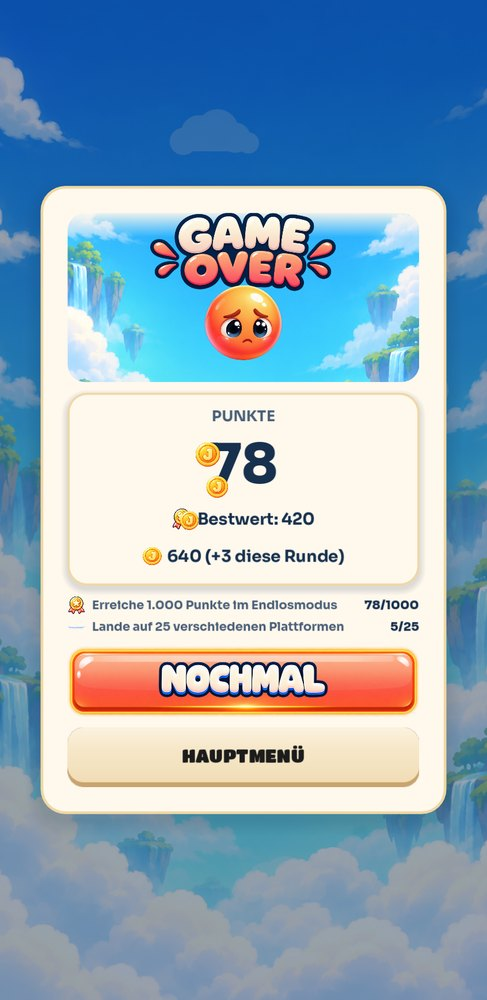
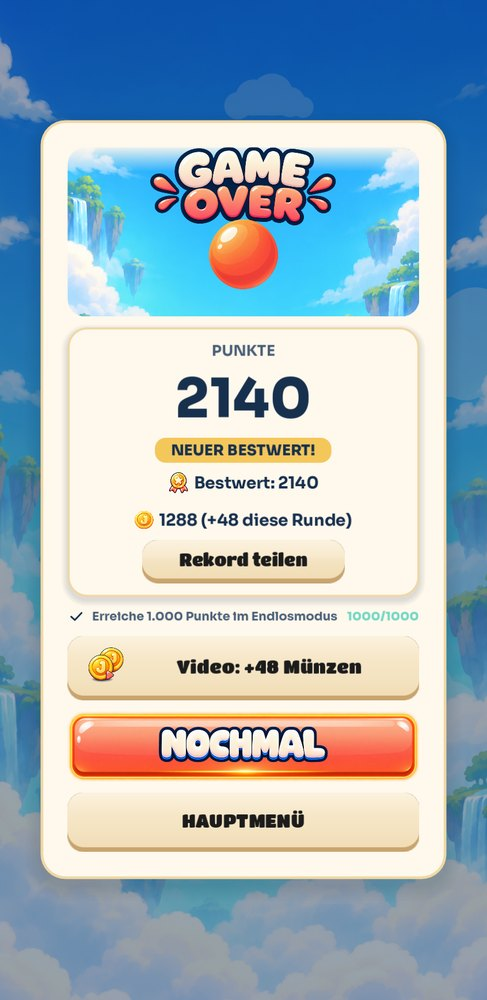
Neue Screenshots (neues Menü, Rekord, Shop mit Starter-Paket, Welten, Missionen, Trophäen)

diff --git a/index.html b/index.html
@@ -41,7 +41,7 @@
     <img class="side a" src="assets/img/ball_candy_swirl.png?v=4b911b70" alt="">
     <img class="side b" src="assets/img/ball_violet_trail.png?v=2c72253e" alt="">
     <img class="side c" src="assets/img/ball_amber_pulse.png?v=ecb5bb89" alt="">
-    <div class="phone"><img src="assets/img/shot_menu_de.jpg?v=c5e635d8" alt="Hauptmenü von Jump the Ball" width="487" height="1000"></div>
+    <div class="phone"><img src="assets/img/shot_menu_de.jpg?v=86d3cb93" alt="Hauptmenü von Jump the Ball" width="487" height="1000"></div>
   </div>
 </header>
 <main class="wrap">
@@ -51,7 +51,7 @@
 <div class="card feature"><img src="assets/img/ball_violet_trail.png?v=2c72253e" alt=""><h3>Barrierearme Optionen</h3><p>Klare Formen bei Farbsehschwäche, Blinkeffekte aus, weniger Bewegung und einstellbare Steuerung.</p></div></section>
   <section id="einblicke">
     <h2 class="title section">Einblicke</h2>
-    <div class="shots"><img src="assets/img/shot_menu_de.jpg?v=c5e635d8" alt="Hauptmenü von Jump the Ball" width="600" height="1300" loading="lazy"><img src="assets/img/shot_level50_de.jpg?v=a4f15c7f" alt="Levelstart von Level 50" width="600" height="1300" loading="lazy"><img src="assets/img/shot_eclipse.jpg?v=0775d4b2" alt="Spielszene in der exklusiven Welt Eclipse Rift" width="600" height="1300" loading="lazy"><img src="assets/img/shot_halloween.jpg?v=d26066c9" alt="Spielszene in der Halloween-Welt" width="600" height="1300" loading="lazy"><img src="assets/img/shot_witches.jpg?v=bf76329f" alt="Spielszene in der roten Hexenwelt" width="600" height="1300" loading="lazy"><img src="assets/img/shot_winter.jpg?v=039262d1" alt="Spielszene in der Winterwelt" width="600" height="1300" loading="lazy"><img src="assets/img/shot_undead.jpg?v=73754f01" alt="Spielszene in der Untoten-Welt" width="600" height="1300" loading="lazy"><img src="assets/img/shot_missions.jpg?v=4ecf95b2" alt="Tägliche Missionen" width="600" height="1300" loading="lazy"><img src="assets/img/shot_logbook.jpg?v=2b95f4f1" alt="Level-Logbuch mit Sternen" width="600" height="1300" loading="lazy"><img src="assets/img/shot_guide.jpg?v=f62a6b86" alt="Sprunghilfe markiert die nächste Plattform" width="600" height="1300" loading="lazy"><img src="assets/img/shot_trophies.jpg?v=83a35916" alt="Trophäenbuch mit Eclipse-Rift-Belohnung" width="600" height="1300" loading="lazy"><img src="assets/img/shot_best_de.jpg?v=924f912a" alt="Neuer Bestwert nach einer Runde" width="600" height="1300" loading="lazy"><img src="assets/img/shot_shop.jpg?v=62b5b3e3" alt="Shop mit Welten" width="600" height="1300" loading="lazy"></div>
+    <div class="shots"><img src="assets/img/shot_menu_de.jpg?v=86d3cb93" alt="Hauptmenü von Jump the Ball" width="600" height="1300" loading="lazy"><img src="assets/img/shot_level50_de.jpg?v=a4f15c7f" alt="Levelstart von Level 50" width="600" height="1300" loading="lazy"><img src="assets/img/shot_eclipse.jpg?v=0775d4b2" alt="Spielszene in der exklusiven Welt Eclipse Rift" width="600" height="1300" loading="lazy"><img src="assets/img/shot_halloween.jpg?v=fb5808e6" alt="Spielszene in der Halloween-Welt" width="600" height="1300" loading="lazy"><img src="assets/img/shot_witches.jpg?v=bf76329f" alt="Spielszene in der roten Hexenwelt" width="600" height="1300" loading="lazy"><img src="assets/img/shot_winter.jpg?v=5e865e6b" alt="Spielszene in der Winterwelt" width="600" height="1300" loading="lazy"><img src="assets/img/shot_undead.jpg?v=73754f01" alt="Spielszene in der Untoten-Welt" width="600" height="1300" loading="lazy"><img src="assets/img/shot_missions.jpg?v=f933120e" alt="Tägliche Missionen" width="600" height="1300" loading="lazy"><img src="assets/img/shot_logbook.jpg?v=2b95f4f1" alt="Level-Logbuch mit Sternen" width="600" height="1300" loading="lazy"><img src="assets/img/shot_guide.jpg?v=f62a6b86" alt="Sprunghilfe markiert die nächste Plattform" width="600" height="1300" loading="lazy"><img src="assets/img/shot_trophies.jpg?v=f31db23e" alt="Trophäenbuch mit Eclipse-Rift-Belohnung" width="600" height="1300" loading="lazy"><img src="assets/img/shot_best_de.jpg?v=9407d8b5" alt="Neuer Bestwert nach einer Runde" width="600" height="1300" loading="lazy"><img src="assets/img/shot_shop.jpg?v=c2ae8607" alt="Shop mit Welten" width="600" height="1300" loading="lazy"></div>
   </section>
   <section id="faq" class="card faqs">
     <h2 class="title section dark">Häufige Fragen</h2>

diff --git a/en.html b/en.html
@@ -41,7 +41,7 @@
     <img class="side a" src="assets/img/ball_candy_swirl.png?v=4b911b70" alt="">
     <img class="side b" src="assets/img/ball_violet_trail.png?v=2c72253e" alt="">
     <img class="side c" src="assets/img/ball_amber_pulse.png?v=ecb5bb89" alt="">
-    <div class="phone"><img src="assets/img/shot_menu_en.jpg?v=5d5d76b3" alt="Jump the Ball main menu" width="487" height="1000"></div>
+    <div class="phone"><img src="assets/img/shot_menu_en.jpg?v=474a1b92" alt="Jump the Ball main menu" width="487" height="1000"></div>
   </div>
 </header>
 <main class="wrap">
@@ -51,7 +51,7 @@
 <div class="card feature"><img src="assets/img/ball_violet_trail.png?v=2c72253e" alt=""><h3>Accessibility options</h3><p>Clear shapes for colour vision deficiency, flash effects off, reduced motion and adjustable steering.</p></div></section>
   <section id="einblicke">
     <h2 class="title section">A look inside</h2>
-    <div class="shots"><img src="assets/img/shot_menu_en.jpg?v=5d5d76b3" alt="Jump the Ball main menu" width="600" height="1300" loading="lazy"><img src="assets/img/shot_level50_en.jpg?v=70226ffc" alt="Start of level 50" width="600" height="1300" loading="lazy"><img src="assets/img/shot_eclipse.jpg?v=0775d4b2" alt="Gameplay in the exclusive Eclipse Rift world" width="600" height="1300" loading="lazy"><img src="assets/img/shot_halloween.jpg?v=d26066c9" alt="Gameplay in the Halloween world" width="600" height="1300" loading="lazy"><img src="assets/img/shot_witches.jpg?v=bf76329f" alt="Gameplay in the red witches world" width="600" height="1300" loading="lazy"><img src="assets/img/shot_winter.jpg?v=039262d1" alt="Gameplay in the winter world" width="600" height="1300" loading="lazy"><img src="assets/img/shot_undead.jpg?v=73754f01" alt="Gameplay in the undead world" width="600" height="1300" loading="lazy"><img src="assets/img/shot_missions.jpg?v=4ecf95b2" alt="Daily missions" width="600" height="1300" loading="lazy"><img src="assets/img/shot_logbook.jpg?v=2b95f4f1" alt="Level log with stars" width="600" height="1300" loading="lazy"><img src="assets/img/shot_guide.jpg?v=f62a6b86" alt="Jump guide highlights the next platform" width="600" height="1300" loading="lazy"><img src="assets/img/shot_best_en.jpg?v=828c0acb" alt="New best score after a run" width="600" height="1300" loading="lazy"><img src="assets/img/shot_shop.jpg?v=62b5b3e3" alt="Shop with worlds" width="600" height="1300" loading="lazy"></div>
+    <div class="shots"><img src="assets/img/shot_menu_en.jpg?v=474a1b92" alt="Jump the Ball main menu" width="600" height="1300" loading="lazy"><img src="assets/img/shot_level50_en.jpg?v=70226ffc" alt="Start of level 50" width="600" height="1300" loading="lazy"><img src="assets/img/shot_eclipse.jpg?v=0775d4b2" alt="Gameplay in the exclusive Eclipse Rift world" width="600" height="1300" loading="lazy"><img src="assets/img/shot_halloween.jpg?v=fb5808e6" alt="Gameplay in the Halloween world" width="600" height="1300" loading="lazy"><img src="assets/img/shot_witches.jpg?v=bf76329f" alt="Gameplay in the red witches world" width="600" height="1300" loading="lazy"><img src="assets/img/shot_winter.jpg?v=5e865e6b" alt="Gameplay in the winter world" width="600" height="1300" loading="lazy"><img src="assets/img/shot_undead.jpg?v=73754f01" alt="Gameplay in the undead world" width="600" height="1300" loading="lazy"><img src="assets/img/shot_missions.jpg?v=f933120e" alt="Daily missions" width="600" height="1300" loading="lazy"><img src="assets/img/shot_logbook.jpg?v=2b95f4f1" alt="Level log with stars" width="600" height="1300" loading="lazy"><img src="assets/img/shot_guide.jpg?v=f62a6b86" alt="Jump guide highlights the next platform" width="600" height="1300" loading="lazy"><img src="assets/img/shot_best_en.jpg?v=b49760cc" alt="New best score after a run" width="600" height="1300" loading="lazy"><img src="assets/img/shot_shop.jpg?v=c2ae8607" alt="Shop with worlds" width="600" height="1300" loading="lazy"></div>
   </section>
   <section id="faq" class="card faqs">
     <h2 class="title section dark">FAQ</h2>
